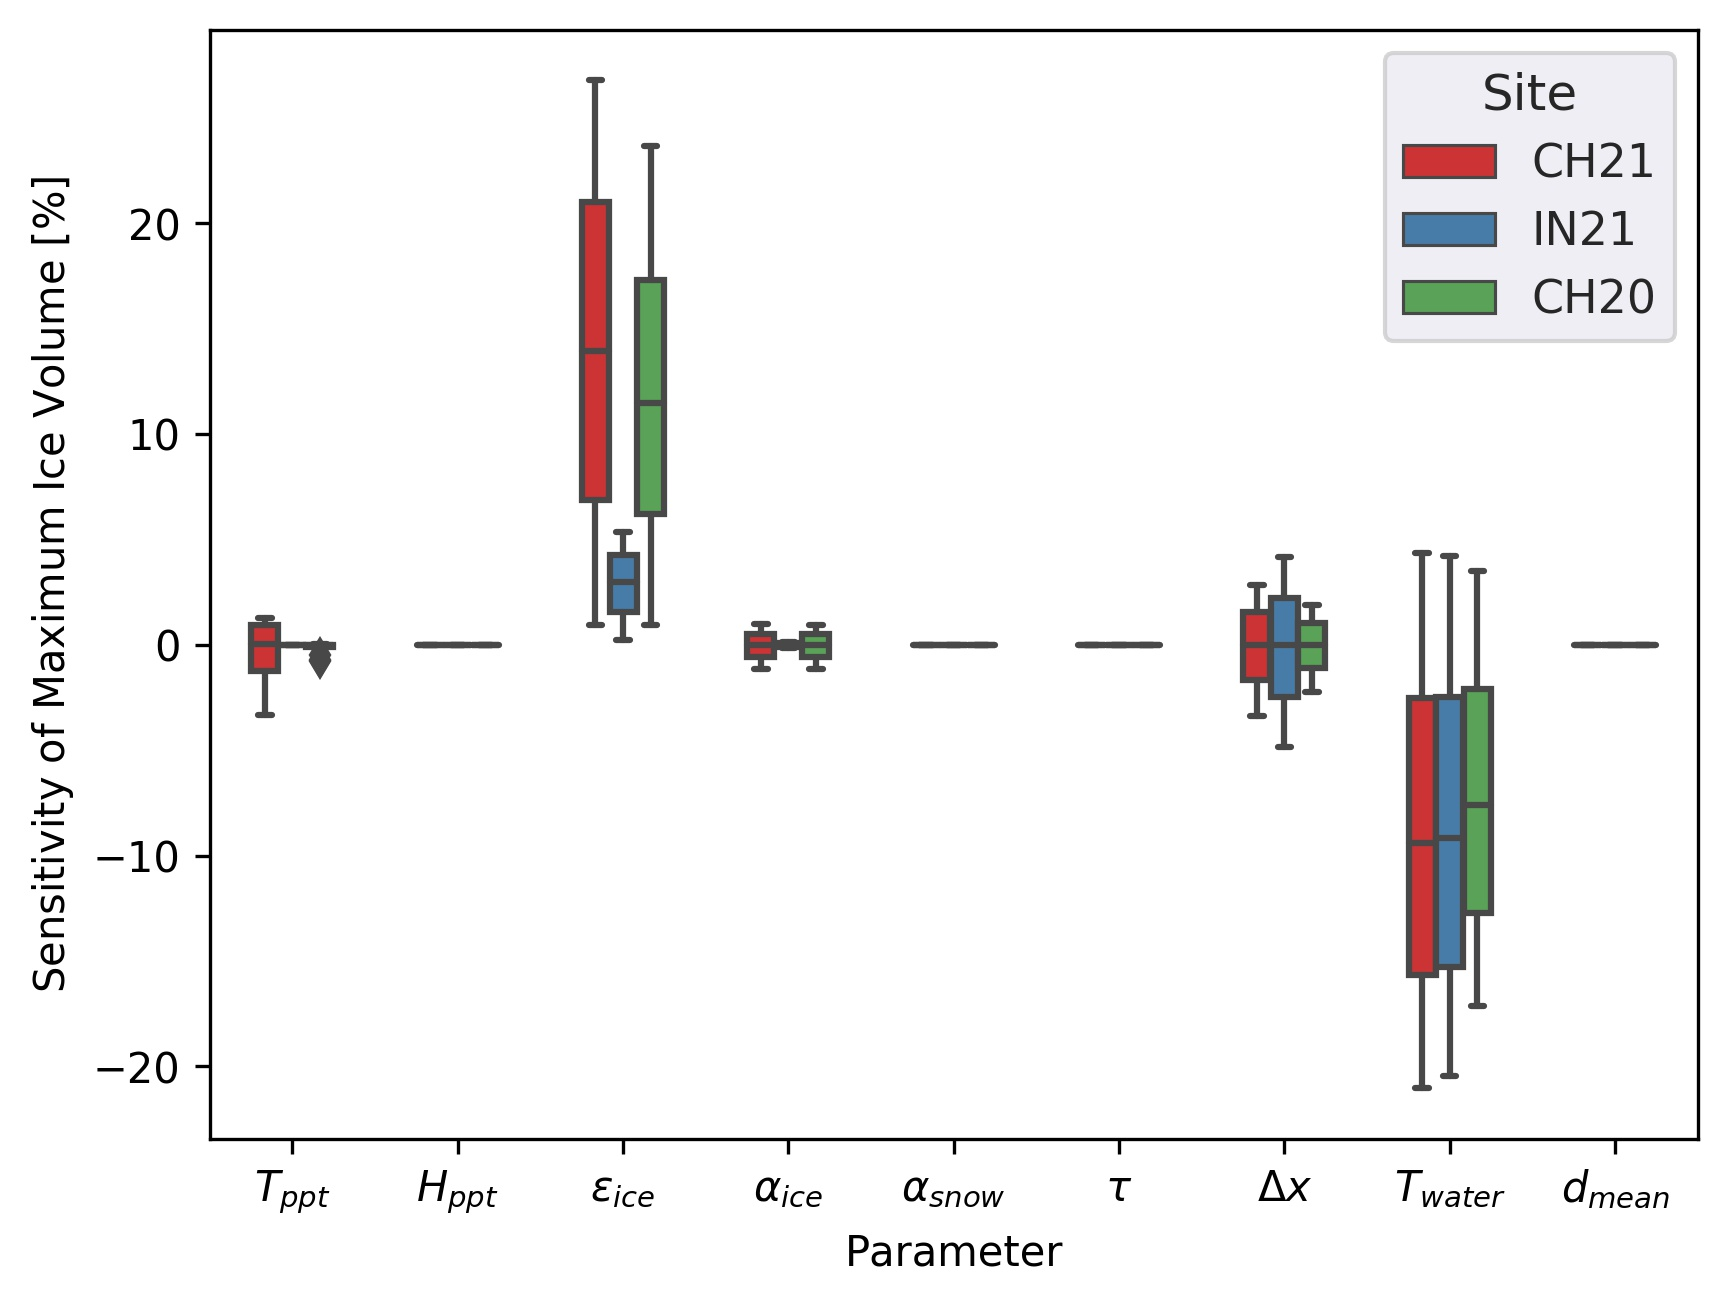
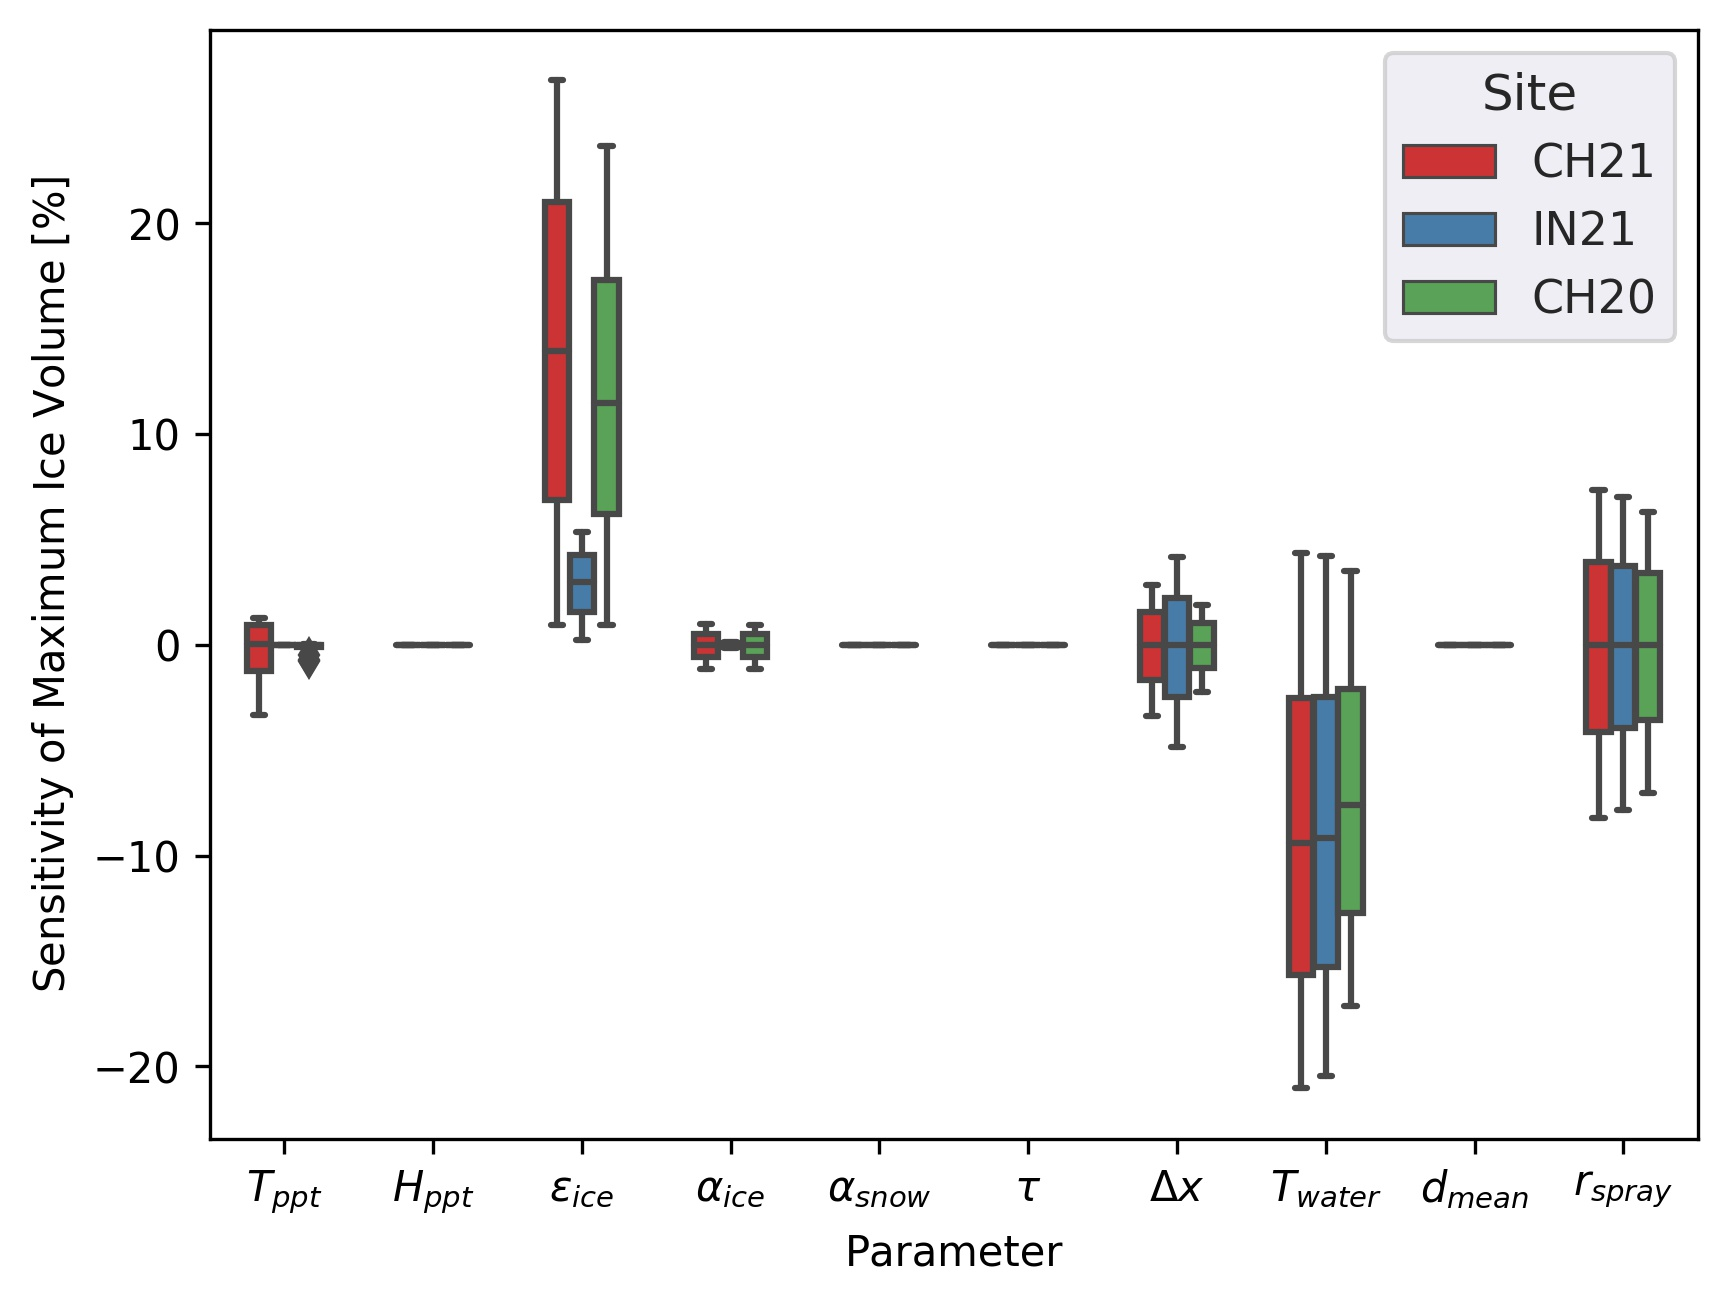
Prepare uq full sim

diff --git a/src/utils/uq_full.py b/src/utils/uq_full.py
@@ -48,24 +48,28 @@ if __name__ == "__main__":
     a_i_dist = cp.Uniform(icestupa.A_I * .95, icestupa.A_I * 1.05)
     a_s_dist = cp.Uniform(icestupa.A_S * .95, icestupa.A_S * 1.05)
     dx_dist = cp.Uniform(icestupa.DX * .95, icestupa.DX * 1.05)
-
+    r_spray_dist = cp.Uniform(icestupa.r_spray * .95, icestupa.r_spray * 1.05)
     ie_dist = cp.Uniform(0.949, 0.993)
     a_decay_dist = cp.Uniform(1, 22)
     T_PPT_dist = cp.Uniform(0, 2)
     H_PPT_dist = cp.Uniform(0, 2)
     T_W_dist = cp.Uniform(0, 5)
-
-    # total_days = int(icestupa.df.index[-1] * icestupa.DT / (60 * 60 * 24))
+    if location in ['guttannen21', 'guttannen20']:
+        d_dist = cp.Uniform(5, 10)
+    if location == 'gangles21':
+        d_dist = cp.Uniform(30, 90)
 
     parameters = {
             "IE": ie_dist,
             "A_I": a_i_dist,
-            "A_S": a_s_dist,
+            # "A_S": a_s_dist,
+            # "A_DECAY": a_decay_dist,
             "T_PPT": T_PPT_dist,
-            "H_PPT": H_PPT_dist,
+            # "H_PPT": H_PPT_dist,
             "DX": dx_dist,
-            "A_DECAY": a_decay_dist,
-            # "T_W": T_W_dist,
+            "T_W": T_W_dist,
+            # "d_mean": d_dist,
+            "r_spray": r_spray_dist,
     }
     parameters = un.Parameters(parameters)
 

diff --git a/src/utils/uq_air.py b/src/utils/uq_air.py
@@ -117,7 +117,6 @@ if __name__ == "__main__":
         a_s_dist = cp.Uniform(icestupa.A_S * .95, icestupa.A_S * 1.05)
         dx_dist = cp.Uniform(icestupa.DX * .95, icestupa.DX * 1.05)
         r_spray_dist = cp.Uniform(icestupa.r_spray * .95, icestupa.r_spray * 1.05)
-
         ie_dist = cp.Uniform(0.949, 0.993)
         a_decay_dist = cp.Uniform(1, 22)
         T_PPT_dist = cp.Uniform(0, 2)
@@ -129,15 +128,15 @@ if __name__ == "__main__":
             d_dist = cp.Uniform(30, 90)
 
         parameters_single = {
-            # "IE": ie_dist,
-            # "A_I": a_i_dist,
-            # "A_S": a_s_dist,
-            # "A_DECAY": a_decay_dist,
-            # "T_PPT": T_PPT_dist,
-            # "H_PPT": H_PPT_dist,
-            # "T_W": T_W_dist,
-            # "DX": dx_dist,
-            # "d_mean": d_dist,
+            "IE": ie_dist,
+            "A_I": a_i_dist,
+            "A_S": a_s_dist,
+            "A_DECAY": a_decay_dist,
+            "T_PPT": T_PPT_dist,
+            "H_PPT": H_PPT_dist,
+            "T_W": T_W_dist,
+            "DX": dx_dist,
+            "d_mean": d_dist,
             "r_spray": r_spray_dist,
         }
 
